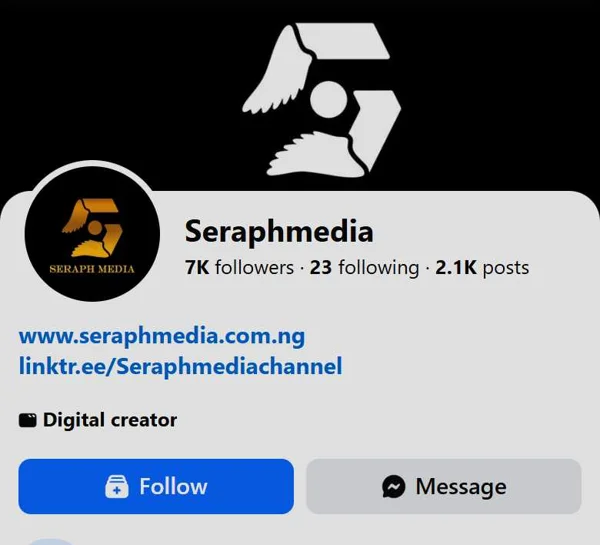
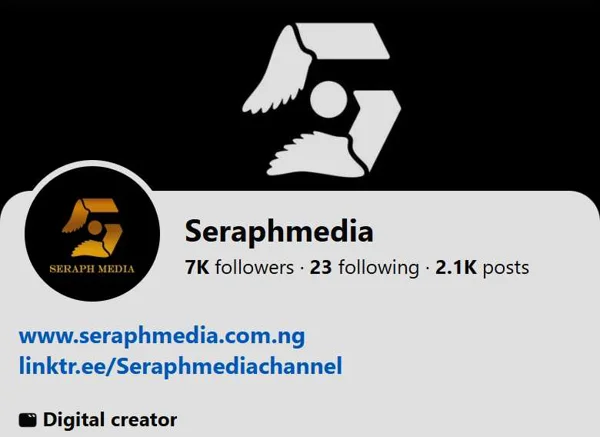
Order case studies by audience size; real host-site screenshots
- Spirit Life first, then Seraph Media, Testimony Altar, Yield Haven
- Quivers: Cherubs Cove site (phone view); Camp Nehemiah: Dayspring site
- Fix step number placeholder on Seraph Media
- Crop Follow button from Seraph Media screenshot

diff --git a/index.html b/index.html
@@ -150,42 +150,7 @@
       <div class="work__body">
         <div class="work__steps">
           <article class="step" data-screen="0">
-            <button class="step__head" type="button" aria-expanded="false"><span class="step__num">01</span><h3>Yield Haven</h3></button>
-            <div class="step__body"><div>
-            <p class="step__role">Communications Officer · Internal &amp; External</p>
-            <p>AI-powered strategic consulting for Africans. I plan the content strategy, write the copy, shoot and edit the videos, and keep the team and the public informed. That work took me to Kigali, Rwanda, for the Aurah AI launch.</p>
-            <ul class="tags"><li>Strategy</li><li>Video shoots</li><li>Copywriting</li><li>Internal comms</li></ul>
-            <a class="link" href="https://www.instagram.com/yieldhaven_official/" target="_blank" rel="noopener">@yieldhaven_official ↗</a>
-          </div></div>
-          </article>
-          <article class="step" data-screen="1">
-            <button class="step__head" type="button" aria-expanded="false"><span class="step__num">02</span><h3>Kigali, Rwanda</h3></button>
-            <div class="step__body"><div>
-            <p class="step__role">Yield Haven trip · On-site content</p>
-            <p>I captured and posted the team's time in Kigali as it happened: photos, short videos and stories from the Aurah AI launch.</p>
-            <ul class="tags"><li>Event coverage</li><li>Photography</li><li>Stories</li></ul>
-          </div></div>
-          </article>
-          <article class="step" data-screen="2">
-            <button class="step__head" type="button" aria-expanded="false"><span class="step__num">NN</span><h3>Seraph Media</h3></button>
-            <div class="step__body"><div>
-            <p class="step__role">Social Media Manager · Facebook, TikTok, YouTube &amp; X</p>
-            <p>A Christian media brand with more than 7,000 Facebook followers and over 2,100 posts. I plan and publish content across Facebook, TikTok, YouTube and X, and keep the community talking.</p>
-            <ul class="tags"><li>Multi-platform</li><li>Content calendar</li><li>Community</li><li>Video</li></ul>
-            <a class="link" href="https://www.facebook.com/SeraphmediaSM" target="_blank" rel="noopener">facebook.com/SeraphmediaSM ↗</a>
-          </div></div>
-          </article>
-          <article class="step" data-screen="3">
-            <button class="step__head" type="button" aria-expanded="false"><span class="step__num">03</span><h3>Testimony Altar</h3></button>
-            <div class="step__body"><div>
-            <p class="step__role">Social Media Manager · Faith community</p>
-            <p>A global, non-denominational altar where believers share testimonies of God's faithfulness to build up other people's faith. I shape each testimony into a story people stop to read and share.</p>
-            <ul class="tags"><li>Community</li><li>Storytelling</li><li>Design</li></ul>
-            <a class="link" href="https://www.instagram.com/testimonyaltar/" target="_blank" rel="noopener">@testimonyaltar ↗</a>
-          </div></div>
-          </article>
-          <article class="step" data-screen="4">
-            <button class="step__head" type="button" aria-expanded="false"><span class="step__num">04</span><h3>Spirit Life C&amp;S Church</h3></button>
+            <button class="step__head" type="button" aria-expanded="false"><span class="step__num">01</span><h3>Spirit Life C&amp;S Church</h3></button>
             <div class="step__body"><div>
             <p class="step__role">Media Team · Facebook &amp; Instagram, photo &amp; video</p>
             <p>Every week I make content for the church's pages: service highlights, devotionals, event promotions and photos. The Facebook page has more than 20,000 followers, the Instagram page has close to 1,800 posts, and storytelling helped lift engagement by 25%.</p>
@@ -194,26 +159,63 @@
             <p class="step__stat"><b>20K+</b> Facebook followers</p>
           </div></div>
           </article>
+          <article class="step" data-screen="1">
+            <button class="step__head" type="button" aria-expanded="false"><span class="step__num">02</span><h3>Seraph Media</h3></button>
+            <div class="step__body"><div>
+            <p class="step__role">Social Media Manager · Facebook, TikTok, YouTube &amp; X</p>
+            <p>A Christian media brand with more than 7,000 Facebook followers and over 2,100 posts. I plan and publish content across Facebook, TikTok, YouTube and X, and keep the community talking.</p>
+            <ul class="tags"><li>Multi-platform</li><li>Content calendar</li><li>Community</li><li>Video</li></ul>
+            <a class="link" href="https://www.facebook.com/SeraphmediaSM" target="_blank" rel="noopener">facebook.com/SeraphmediaSM ↗</a>
+          </div></div>
+          </article>
+          <article class="step" data-screen="2">
+            <button class="step__head" type="button" aria-expanded="false"><span class="step__num">03</span><h3>Testimony Altar</h3></button>
+            <div class="step__body"><div>
+            <p class="step__role">Social Media Manager · Faith community</p>
+            <p>A global, non-denominational altar where believers share testimonies of God's faithfulness to build up other people's faith. I shape each testimony into a story people stop to read and share.</p>
+            <ul class="tags"><li>Community</li><li>Storytelling</li><li>Design</li></ul>
+            <a class="link" href="https://www.instagram.com/testimonyaltar/" target="_blank" rel="noopener">@testimonyaltar ↗</a>
+          </div></div>
+          </article>
+          <article class="step" data-screen="3">
+            <button class="step__head" type="button" aria-expanded="false"><span class="step__num">04</span><h3>Yield Haven</h3></button>
+            <div class="step__body"><div>
+            <p class="step__role">Communications Officer · Internal &amp; External</p>
+            <p>AI-powered strategic consulting for Africans. I plan the content strategy, write the copy, shoot and edit the videos, and keep the team and the public informed. That work took me to Kigali, Rwanda, for the Aurah AI launch.</p>
+            <ul class="tags"><li>Strategy</li><li>Video shoots</li><li>Copywriting</li><li>Internal comms</li></ul>
+            <a class="link" href="https://www.instagram.com/yieldhaven_official/" target="_blank" rel="noopener">@yieldhaven_official ↗</a>
+          </div></div>
+          </article>
+          <article class="step" data-screen="4">
+            <button class="step__head" type="button" aria-expanded="false"><span class="step__num">05</span><h3>Kigali, Rwanda</h3></button>
+            <div class="step__body"><div>
+            <p class="step__role">Yield Haven trip · On-site content</p>
+            <p>I captured and posted the team's time in Kigali as it happened: photos, short videos and stories from the Aurah AI launch.</p>
+            <ul class="tags"><li>Event coverage</li><li>Photography</li><li>Stories</li></ul>
+          </div></div>
+          </article>
           <article class="step" data-screen="5">
-            <button class="step__head" type="button" aria-expanded="false"><span class="step__num">05</span><h3>Quivers Conference</h3></button>
+            <button class="step__head" type="button" aria-expanded="false"><span class="step__num">06</span><h3>Quivers Conference</h3></button>
             <div class="step__body"><div>
             <p class="step__role">Head of Content Team · Hosted by Cherubs Cove</p>
             <p>I led the conference content team: planning coverage, briefing photographers and editors, and getting posts and highlights out while the event was live.</p>
             <ul class="tags"><li>Team lead</li><li>Live coverage</li><li>Content planning</li></ul>
+            <a class="link" href="https://www.cherubscove.net/past-conferences" target="_blank" rel="noopener">cherubscove.net ↗</a> &nbsp; <a class="link" href="https://web.facebook.com/p/Cherubs-Cove-100093653071803/" target="_blank" rel="noopener">Facebook ↗</a>
           </div></div>
           </article>
           <article class="step" data-screen="6">
-            <button class="step__head" type="button" aria-expanded="false"><span class="step__num">06</span><h3>Camp Nehemiah</h3></button>
+            <button class="step__head" type="button" aria-expanded="false"><span class="step__num">07</span><h3>Camp Nehemiah</h3></button>
             <div class="step__body"><div>
             <p class="step__role">Media Team · Hosted by Dayspring Seraphic Church</p>
             <p>Camp Nehemiah is Dayspring Seraphic Church's annual camp. On the media team I helped with countdown posts, covered sessions, took photos and edited highlight reels and recaps.</p>
             <ul class="tags"><li>Event coverage</li><li>Photography</li><li>Reels</li></ul>
+            <a class="link" href="https://www.dayspringseraphicchurch.org/" target="_blank" rel="noopener">dayspringseraphicchurch.org ↗</a>
           </div></div>
           </article>
           <div class="work__progress" aria-hidden="true"><i></i></div>
         </div>
         <div class="work__shots" aria-hidden="true">
-          <img src="assets/img/ig-yieldhaven.webp" alt=""><img src="assets/img/fb-seraphmedia.webp" alt=""><img src="assets/img/ig-testimonyaltar.webp" alt=""><img src="assets/img/ig-spiritlife.webp" alt="">
+          <img src="assets/img/ig-spiritlife.webp" alt=""><img src="assets/img/fb-seraphmedia.webp" alt=""><img src="assets/img/ig-testimonyaltar.webp" alt=""><img src="assets/img/ig-yieldhaven.webp" alt="">
         </div>
 
         <div class="phone-wrap">
@@ -222,13 +224,31 @@
             <div class="phone__screen">
               <div class="phone__bar"><span>9:41</span><span>●●● ▮</span></div>
 
-              <!-- 0 Yield Haven -->
+              <!-- 3 Spirit Life -->
               <div class="screen is-active" data-i="0">
+                <a class="ig-shot" href="https://www.instagram.com/spiritlife_chapel/" target="_blank" rel="noopener"><img src="assets/img/ig-spiritlife.webp" alt="Spirit Life C&amp;S Church Instagram profile" loading="lazy"></a>
+                <div class="ig-growth ig-growth--float"><span>Engagement</span><b>+25%</b><svg viewBox="0 0 120 40"><path d="M2 36 L30 30 L52 32 L74 20 L96 14 L118 4"/></svg></div>
+              </div>
+
+              <!-- Seraph Media -->
+              <div class="screen screen--fb" data-i="1">
+                <a class="fb-shot" href="https://www.facebook.com/SeraphmediaSM" target="_blank" rel="noopener"><img src="assets/img/fb-seraphmedia.webp" alt="Seraph Media Facebook page" loading="lazy"></a>
+                <div class="fb-platforms"><span>Facebook</span><span>TikTok</span><span>YouTube</span><span>X</span></div>
+                <div class="ig-stats"><span><b data-count="7070">7,070</b> followers</span><span><b data-count="2100" data-suffix="+">2,100+</b> posts</span></div>
+              </div>
+
+              <!-- 2 Testimony Altar -->
+              <div class="screen" data-i="2">
+                <a class="ig-shot" href="https://www.instagram.com/testimonyaltar/" target="_blank" rel="noopener"><img src="assets/img/ig-testimonyaltar.webp" alt="Testimony Altar Instagram profile managed by Jennifer" loading="lazy"></a>
+              </div>
+
+              <!-- 0 Yield Haven -->
+              <div class="screen" data-i="3">
                 <a class="ig-shot" href="https://www.instagram.com/yieldhaven_official/" target="_blank" rel="noopener"><img src="assets/img/ig-yieldhaven.webp" alt="Yield Haven Instagram profile managed by Jennifer" loading="lazy"></a>
               </div>
 
               <!-- 1 Kigali story -->
-              <div class="screen screen--story" data-i="1">
+              <div class="screen screen--story" data-i="4">
                 <div class="story-bars"><i class="on"></i><i></i><i></i><i></i></div>
                 <div class="story-slides">
                   <img src="assets/img/kigali-pergola.webp" alt="Jennifer on a rooftop in Kigali" loading="lazy">
@@ -239,38 +259,14 @@
                 <div class="story-tag">📍 Kigali, Rwanda</div>
               </div>
 
-              <!-- Seraph Media -->
-              <div class="screen screen--fb" data-i="2">
-                <a class="fb-shot" href="https://www.facebook.com/SeraphmediaSM" target="_blank" rel="noopener"><img src="assets/img/fb-seraphmedia.webp" alt="Seraph Media Facebook page" loading="lazy"></a>
-                <div class="fb-platforms"><span>Facebook</span><span>TikTok</span><span>YouTube</span><span>X</span></div>
-                <div class="ig-stats"><span><b data-count="7070">7,070</b> followers</span><span><b data-count="2100" data-suffix="+">2,100+</b> posts</span></div>
-              </div>
-
-              <!-- 2 Testimony Altar -->
-              <div class="screen" data-i="3">
-                <a class="ig-shot" href="https://www.instagram.com/testimonyaltar/" target="_blank" rel="noopener"><img src="assets/img/ig-testimonyaltar.webp" alt="Testimony Altar Instagram profile managed by Jennifer" loading="lazy"></a>
-              </div>
-
-              <!-- 3 Spirit Life -->
-              <div class="screen" data-i="4">
-                <a class="ig-shot" href="https://www.instagram.com/spiritlife_chapel/" target="_blank" rel="noopener"><img src="assets/img/ig-spiritlife.webp" alt="Spirit Life C&amp;S Church Instagram profile" loading="lazy"></a>
-                <div class="ig-growth ig-growth--float"><span>Engagement</span><b>+25%</b><svg viewBox="0 0 120 40"><path d="M2 36 L30 30 L52 32 L74 20 L96 14 L118 4"/></svg></div>
-              </div>
-
               <!-- 4 Quivers -->
               <div class="screen" data-i="5">
-                <div class="ig-head"><span class="av av--qv">CC</span><div><b>cherubscove</b><small>Quivers Conference '25 · Immersion</small></div></div>
-                <div class="ig-media ig-media--photo"><img src="assets/img/quivers-2025.webp" alt="A minister speaking at Quivers Conference 2025" loading="lazy"><span class="live">● LIVE</span></div>
-                <div class="ig-actions">♥ 💬 ➤ <span class="ig-save">🔖</span></div>
-                <p class="ig-cap"><b>cherubscove</b> Quivers Conference '25: Immersion. Planned, shot, edited and posted on the day by the content team ✨</p>
+                <a class="ig-shot" href="https://www.cherubscove.net/past-conferences" target="_blank" rel="noopener"><img src="assets/img/web-cherubscove.webp" alt="Cherubs Cove website, Quivers Conference archive, on a phone" loading="lazy"></a>
               </div>
 
               <!-- 5 Camp Nehemiah -->
               <div class="screen" data-i="6">
-                <div class="ig-head"><span class="av av--cn">DS</span><div><b>dayspringseraphicchurch</b><small>Camp Nehemiah · Akure</small></div></div>
-                <div class="ig-media ig-media--video"><video src="assets/camp-nehemiah.mp4" poster="assets/img/camp-eflier.webp" muted loop playsinline preload="none" aria-label="Worship at Camp Nehemiah"></video><span class="live">▶ REEL</span></div>
-                <div class="ig-thumbs"><img src="assets/img/camp-eflier.webp" alt="Camp Nehemiah 2025 flier" loading="lazy"><img src="assets/img/camp-day60.webp" alt="Camp Nehemiah 60 days to go countdown post" loading="lazy"></div>
-                <p class="ig-cap"><b>media team</b> Countdown posts, live coverage and recap reels for Camp Nehemiah 🎬</p>
+                <a class="ig-shot" href="https://www.dayspringseraphicchurch.org/" target="_blank" rel="noopener"><img src="assets/img/web-dayspring.webp" alt="Dayspring Seraphic Church website on a phone" loading="lazy"></a>
               </div>
             </div>
           </div>
